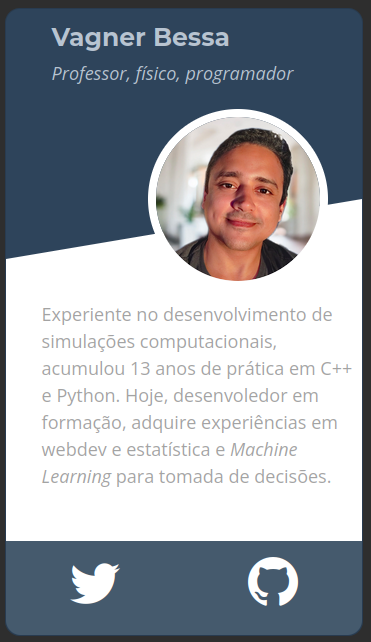
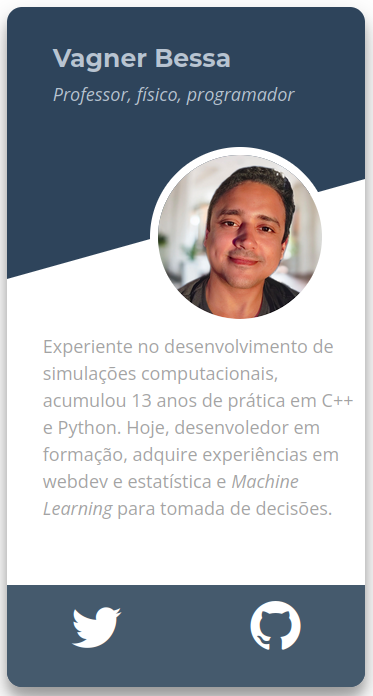
Modificar estilos. Atualizar screenshots

Changed region(s): [[0.0, 0.0, 1.0, 1.0]]

diff --git a/index.html b/index.html
@@ -9,54 +9,32 @@
     <!-- Bootstrap CSS -->
     <link rel="stylesheet" href="https://cdn.jsdelivr.net/npm/bootstrap@4.3.1/dist/css/bootstrap.min.css"
         integrity="sha384-ggOyR0iXCbMQv3Xipma34MD+dH/1fQ784/j6cY/iJTQUOhcWr7x9JvoRxT2MZw1T" crossorigin="anonymous">
-    <!-- Bootstrap stylesheet via CDN -->
-    <!-- Optional JavaScript -->
-    <!-- jQuery first, then Popper.js, then Bootstrap JS -->
-    <script src="https://code.jquery.com/jquery-3.3.1.slim.min.js"
-        integrity="sha384-q8i/X+965DzO0rT7abK41JStQIAqVgRVzpbzo5smXKp4YfRvH+8abtTE1Pi6jizo"
-        crossorigin="anonymous"></script>
-    <script src="https://cdn.jsdelivr.net/npm/popper.js@1.14.7/dist/umd/popper.min.js"
-        integrity="sha384-UO2eT0CpHqdSJQ6hJty5KVphtPhzWj9WO1clHTMGa3JDZwrnQq4sF86dIHNDz0W1"
-        crossorigin="anonymous"></script>
-    <script src="https://cdn.jsdelivr.net/npm/bootstrap@4.3.1/dist/js/bootstrap.min.js"
-        integrity="sha384-JjSmVgyd0p3pXB1rRibZUAYoIIy6OrQ6VrjIEaFf/nJGzIxFDsf4x0xIM+B07jRM"
-        crossorigin="anonymous"></script>
     <!-- Bootstrap icons -->
     <link href="https://cdn.jsdelivr.net/npm/bootstrap-icons@1.3.0/font/bootstrap-icons.css" rel="stylesheet">
-    <!-- Uncoment following two lines to use PyScript via CDN -->
-    <!--
-    <link rel="stylesheet" href="https://pyscript.net/alpha/pyscript.css" />
-    <script defer src="https://pyscript.net/alpha/pyscript.js"></script>
-    -->
-    <!-- <link rel="stylesheet" href="styles.css" /> -->
 </head>
 
 <body>
-    <div class="wrapper d-flex justify-content-center">
-        <div class="card" style="width: 36rem; background-color: #2E445Bff; border-radius: 15px; position: relative;">
-
-            <div class="img-wrapper">
-                <img class="card-img-top rounded-circle z-depth-2"
-                    alt="face100x100"
-                    src="https://i.imgur.com/MLHMwCO.png"
-                />                
+    <div class="wrapper d-flex justify-content-center" style="background-color: #2E445Bff; border-radius: 15px; position: relative;">
+        <div class="img-wrapper">
+            <img class="card-img-top rounded-circle z-depth-2"
+                alt="face100x100"
+                src="https://i.imgur.com/MLHMwCO.png"
+            />                
+        </div>
+        <div class="content-wrapper" style="position: inherit;">
+            <div id="card-body" class="card-body">
+                <h1 id="name" class="card-title">Vagner Bessa</h1>
+                <p id="description" class="card-text"><em>Professor, físico, programador</em></p>
             </div>
-            <div class="content-wrapper" style="position: inherit;">
-                <div id="card-body" class="card-body">
-                    <h1 id="name" class="card-title">Vagner Bessa</h1>
-                    <p id="description" class="card-text"><em>Professor, físico, programador</em></p>
-                </div>
-                <div class="triangle"></div>
-                <div class="bio">
-                    <p> Experiente no desenvolvimento de simulações computacionais,
-                        acumulou 13 anos de prática em C++ e Python. Hoje,
-                        desenvoledor em formação, adquire experiências em webdev e
-                        estatística e <em>Machine Learning</em> para tomada de decisões.         
-                    </p>
-                </div>
-                <div id="contacts" class="d-flex flew-row justify-content-around"> </div>
+            <div class="triangle"></div>
+            <div class="bio">
+                <p> Experiente no desenvolvimento de simulações computacionais,
+                    acumulou 13 anos de prática em C++ e Python. Hoje,
+                    desenvoledor em formação, adquire experiências em webdev e
+                    estatística e <em>Machine Learning</em> para tomada de decisões.         
+                </p>
             </div>
-
+            <div id="contacts" class="d-flex flew-row justify-content-around"> </div>
         </div>
     </div>
 
@@ -86,15 +64,16 @@
         }
         .wrapper {
             width: 358px;
-            height: 628px;
+            height: 680px;
             margin: 80px auto 10px;
             border-radius: 10%;
+            box-shadow: rgba(245, 244, 244, 0.25) 0px 0.0625em 0.0625em, rgba(244, 241, 241, 0.25) 0px 0.125em 0.5em, rgba(235, 232, 232, 0.1) 0px 0px 0px 1px inset;
         }
         .img-wrapper {
             width: 180px;
             margin: 20px auto 0;
             position: absolute;
-            top: 80px;
+            top: 120px;
             left: 40%;
             border: 8px solid white;
             border-radius: 50%;
@@ -106,6 +85,7 @@
             font-size: 1.8rem;
         }
         #card-body {
+            padding-top: 10%;
             height: 40%;
             color: var(--light-steel-blue);
         }
@@ -113,7 +93,7 @@
             bottom: 60%;
             height: 30%;
             border-bottom-color: white;
-            border-width: 0 0 60px 356px;
+            border-width: 0 0 100px 358px;
             border-style: solid;
             position: absolute;
             margin-bottom: 0;
